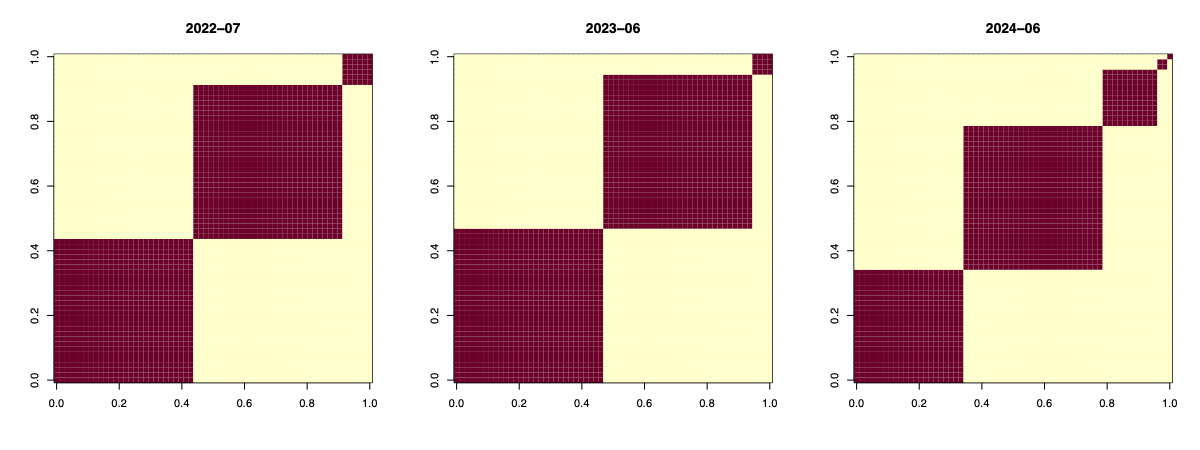
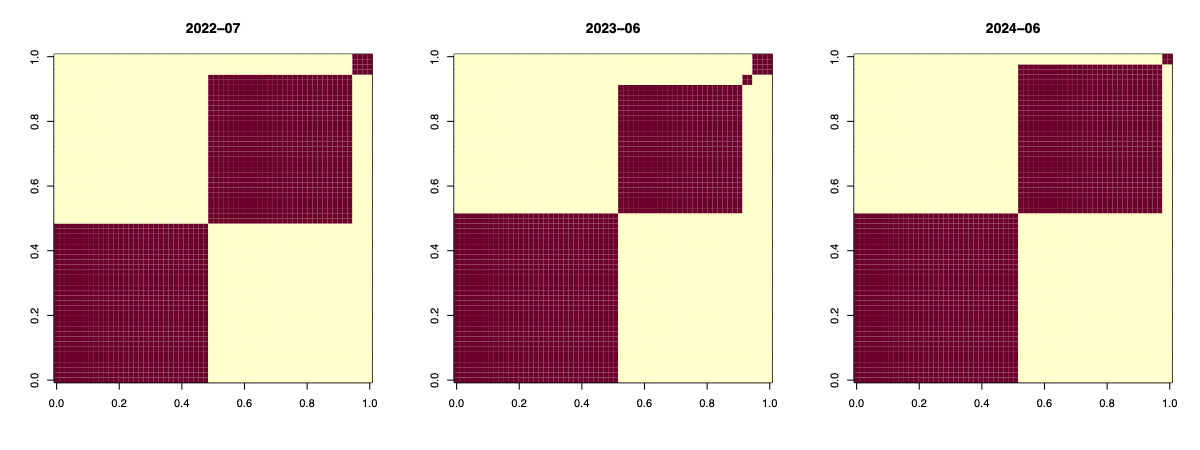
dynclusts 0.1.0

Changed region(s): [[0.7092, 0.1244, 0.9867, 0.8711], [0.37, 0.1556, 0.6475, 0.8711], [0.0308, 0.1244, 0.3083, 0.8711]]

diff --git a/README.md b/README.md
@@ -43,6 +43,7 @@ A detailed *changelog* is available [here](https://github.com/marinsantiago/dync
 Let's start by loading the Chilean FSP data from Marin et al. (2026+).
 
 ``` r
+library(dynclusts)
 data(chile)
 ```
 
@@ -76,8 +77,8 @@ clustering through an autoregressive logistic-beta Stirling-gamma process
 set.seed(1)
 dynclusts.out <- dynclusts::dynclust(
   y = y, coords = coords, X = X, theta.0 = mean(y), 
-  sigma2.0  = 2 * var(c(y)),a.0 = 0.1, b.0 = 0.1, a.alpha = 1, 
-  b.alpha = 0.25, max.iters = 20000L, burn.in = 10000L, thin = 5L
+  sigma2.0  = 2 * var(c(y)), a.0 = 0.1, b.0 = 0.1, a.alpha = 1, 
+  b.alpha = 0.25, max.iters = 200000L, burn.in = 20000L, thin = 25L
 )
 ```
 
